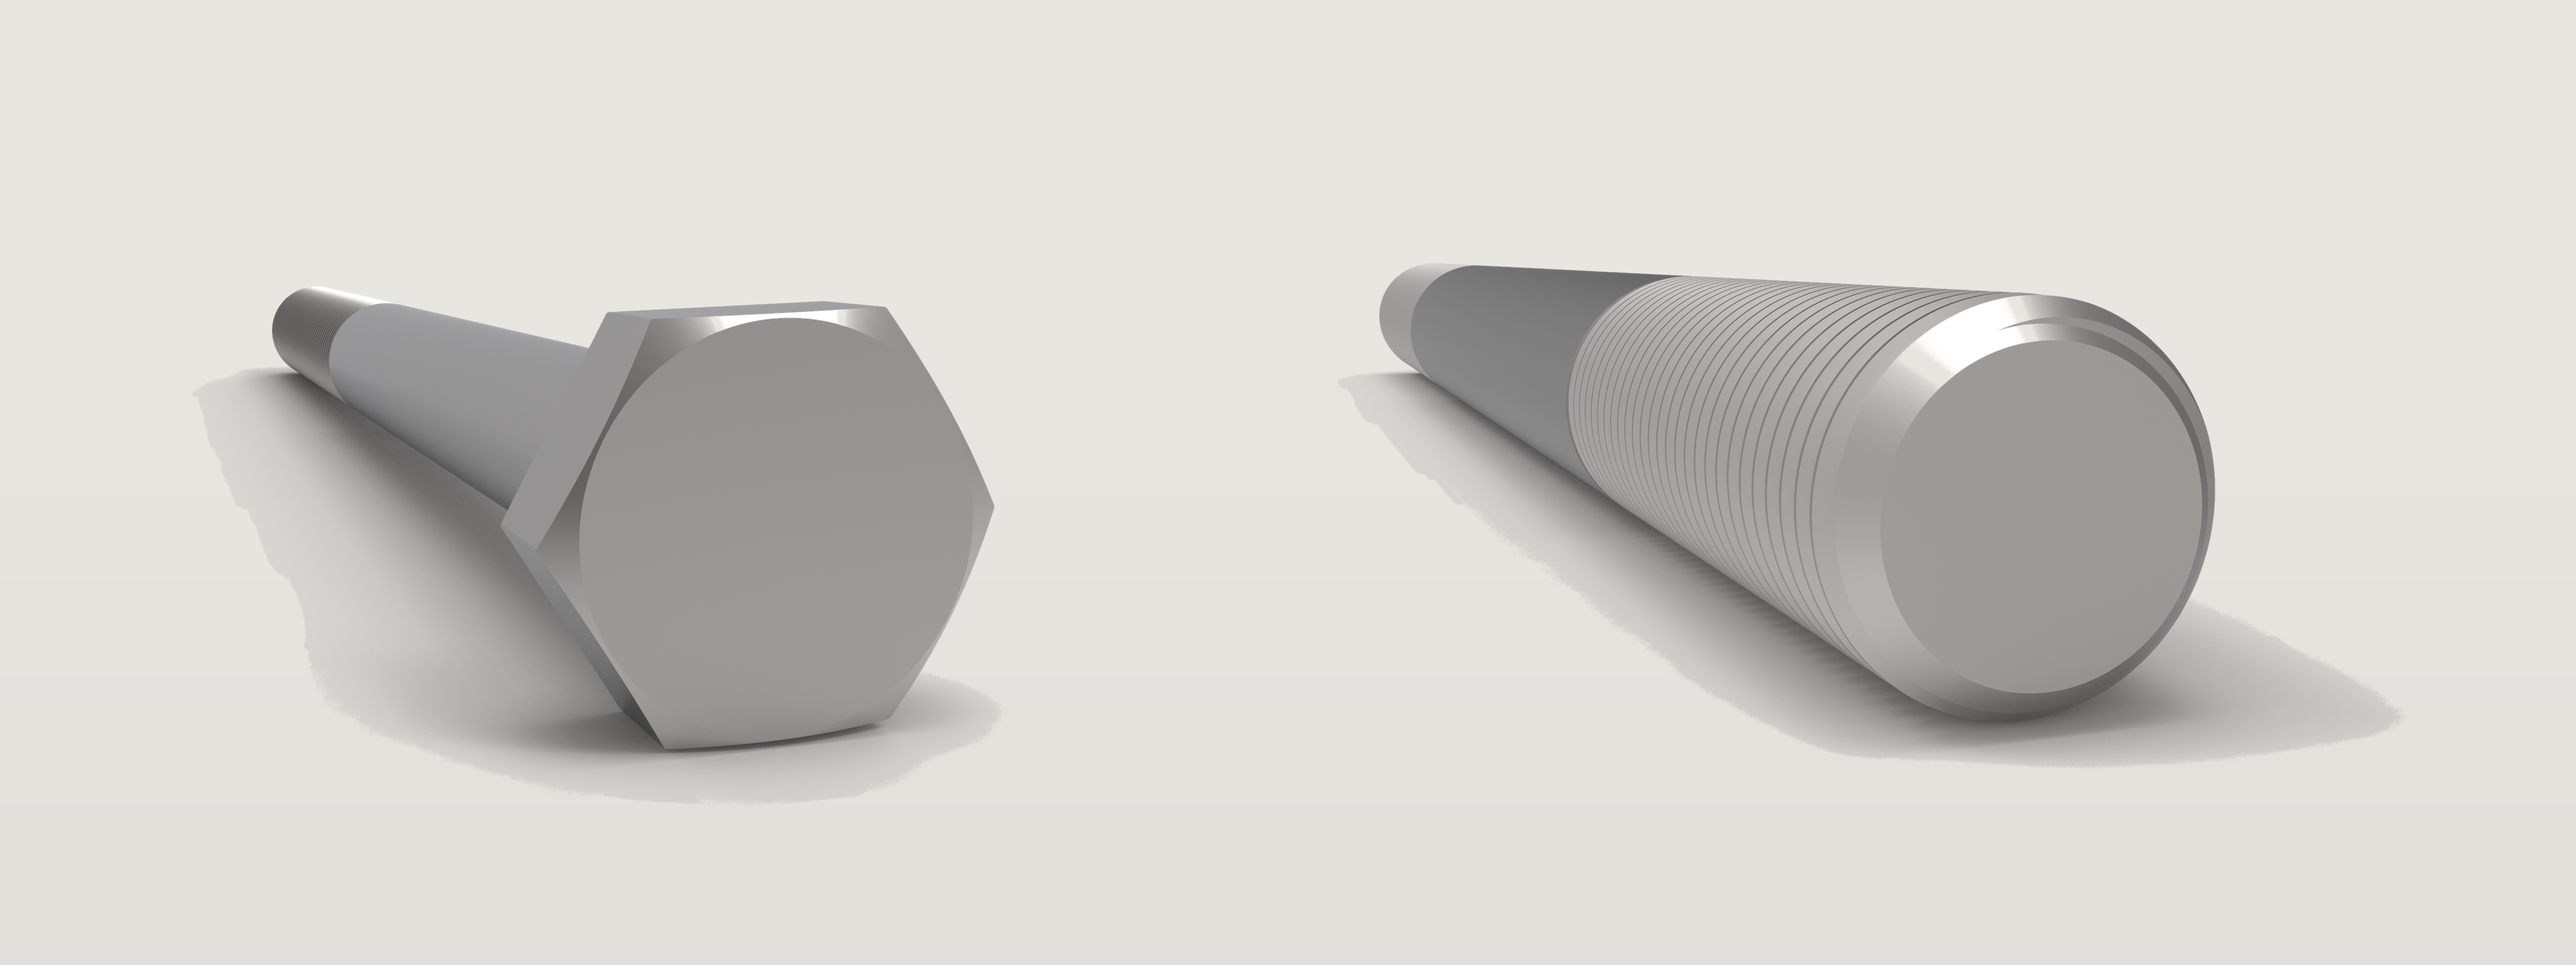
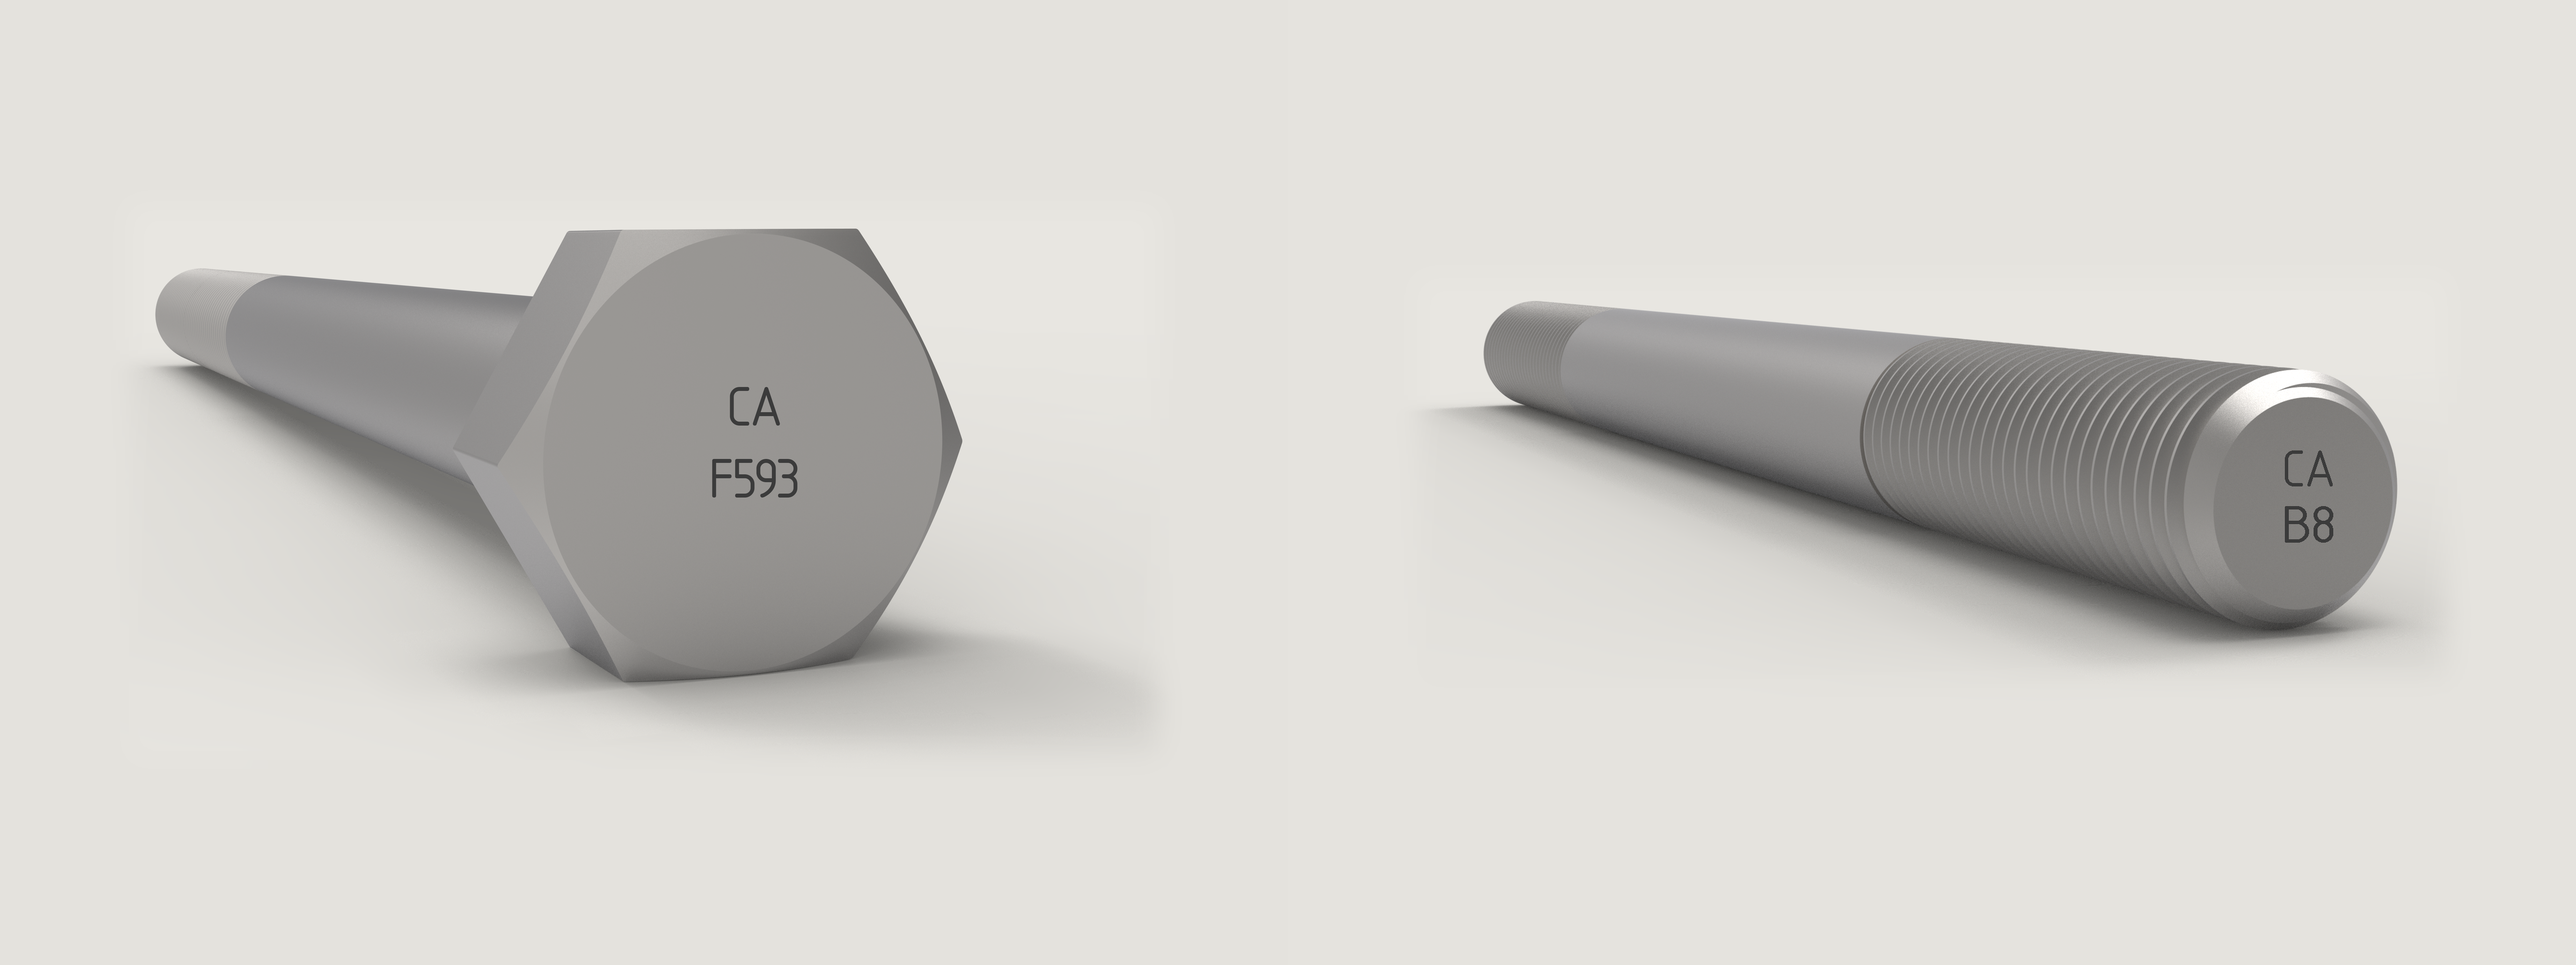
Rebuild the stainless placard from the new anchor renders
Recompose the industrial-fasteners "Stainless steel" family placard from
the new renders — F593 hex bolt on the left, A193 B8 threaded stud on the
right — at the same 4800x1800 (16/6) size so no markup/CSS layout changes
are needed. Edges are feathered onto a matched light-gray bed so there's no
visible seam, and the same contrast/saturation filter as the anchor grade
cards is applied for consistency.

Claude-Session: https://claude.ai/code/session_01L31BdAE6cTZN42XesfyNUk

diff --git a/src/styles/cf-industrial-fasteners.css b/src/styles/cf-industrial-fasteners.css
@@ -46,7 +46,7 @@
    modifier on the shared family component. */
 .pp-family--stainless .pp-spec-card--hero { grid-template-columns: 1fr; padding: 0; background: none; }
 .pp-family--stainless .pp-spec-card--hero .pp-spec-photo { aspect-ratio: 16 / 6; background: #E8E6E1; border-radius: 18px; overflow: hidden; }
-.pp-family--stainless .pp-spec-card--hero .pp-spec-photo img { width: 100%; height: 100%; object-fit: cover; display: block; }
+.pp-family--stainless .pp-spec-card--hero .pp-spec-photo img { width: 100%; height: 100%; object-fit: cover; display: block; filter: contrast(1.08) saturate(1.04); }
 
 /* RESPONSIVE — page-unique sections only */
 @media (max-width: 1000px) {

diff --git a/src/app/industrial-fasteners/page.tsx b/src/app/industrial-fasteners/page.tsx
@@ -280,7 +280,7 @@ export default function IndustrialFastenersPage() {
             <div className="pp-family-cards">
               <div className="pp-spec-card pp-spec-card--hero">
                 <div className="pp-spec-photo">
-                  <Img src="/assets/stainless-placard.png" alt="A193 B8M stainless hex bolt next to A193 B8 stainless stud bolt — staged silver-tone product shot" />
+                  <Img src="/assets/stainless-placard.png" alt="F593 stainless hex bolt beside an A193 B8 stainless stud bolt — staged silver-tone product shot" />
                 </div>
               </div>
               <SpecCard
